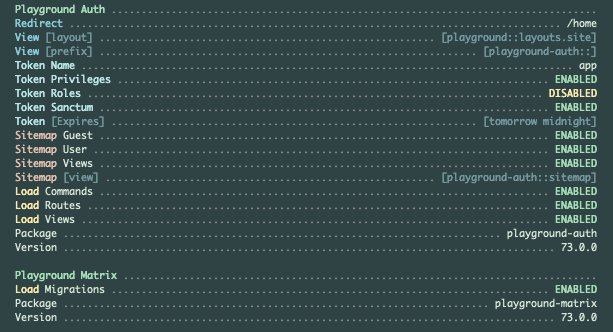
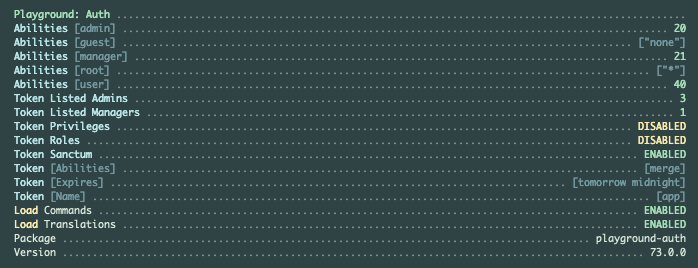
GH-7

diff --git a/config/playground-auth.php b/config/playground-auth.php
@@ -11,9 +11,9 @@ return [
         // 'expires' => null,
         'name' => 'app',
         // @see playground.auth.token.name
-        'listed' => false,
+        'listed' => true,
         'roles' => false,
-        'privileges' => true,
+        'privileges' => false,
         'sanctum' => true,
     ],
     'load' => [
@@ -24,40 +24,19 @@ return [
      * Provide an array of email addresses for admin privileges.
      */
     'admins' => [
-        // 'root@example.com',
-        // 'admin@example.com',
+        // 'cindy@example.com',
+        // 'joe@example.com',
+        // 'tim@example.com',
     ],
     /**
      * Provide an array of email addresses for manager privileges.
      */
     'managers' => [
-        // 'manager@example.com',
+        // 'sally@example.com',
     ],
     'abilities' => [
         'root' => [
             '*',
-            'app:*',
-            'playground:*',
-            'playground-auth:*',
-
-            'playground-matrix:*',
-            'playground-matrix-resource:*',
-
-            'playground-matrix-resource:backlog:*',
-            'playground-matrix-resource:board:*',
-            'playground-matrix-resource:epic:*',
-            'playground-matrix-resource:flow:*',
-            'playground-matrix-resource:milestone:*',
-            'playground-matrix-resource:note:*',
-            'playground-matrix-resource:project:*',
-            'playground-matrix-resource:release:*',
-            'playground-matrix-resource:roadmap:*',
-            'playground-matrix-resource:source:*',
-            'playground-matrix-resource:sprint:*',
-            'playground-matrix-resource:tag:*',
-            'playground-matrix-resource:team:*',
-            'playground-matrix-resource:ticket:*',
-            'playground-matrix-resource:version:*',
         ],
         'admin' => [
             'app:*',
@@ -65,22 +44,6 @@ return [
             'playground-auth:*',
             'playground-matrix:*',
             'playground-matrix-resource:*',
-
-            'playground-matrix-resource:backlog:*',
-            'playground-matrix-resource:board:*',
-            'playground-matrix-resource:epic:*',
-            'playground-matrix-resource:flow:*',
-            'playground-matrix-resource:milestone:*',
-            'playground-matrix-resource:note:*',
-            'playground-matrix-resource:project:*',
-            'playground-matrix-resource:release:*',
-            'playground-matrix-resource:roadmap:*',
-            'playground-matrix-resource:source:*',
-            'playground-matrix-resource:sprint:*',
-            'playground-matrix-resource:tag:*',
-            'playground-matrix-resource:team:*',
-            'playground-matrix-resource:ticket:*',
-            'playground-matrix-resource:version:*',
         ],
         'manager' => [
             'app:view',
@@ -156,43 +119,46 @@ return [
             'playground-matrix-resource:version:viewAny',
         ],
         'guest' => [
-            'app:view',
-
-            'playground:view',
-
-            'playground-auth:logout',
-            'playground-auth:reset-password',
-
-            'playground-matrix-resource:backlog:view',
-            'playground-matrix-resource:backlog:viewAny',
-            'playground-matrix-resource:board:view',
-            'playground-matrix-resource:board:viewAny',
-            'playground-matrix-resource:epic:view',
-            'playground-matrix-resource:epic:viewAny',
-            'playground-matrix-resource:flow:view',
-            'playground-matrix-resource:flow:viewAny',
-            'playground-matrix-resource:milestone:view',
-            'playground-matrix-resource:milestone:viewAny',
-            'playground-matrix-resource:note:view',
-            'playground-matrix-resource:note:viewAny',
-            'playground-matrix-resource:project:view',
-            'playground-matrix-resource:project:viewAny',
-            'playground-matrix-resource:release:view',
-            'playground-matrix-resource:release:viewAny',
-            'playground-matrix-resource:roadmap:view',
-            'playground-matrix-resource:roadmap:viewAny',
-            'playground-matrix-resource:source:view',
-            'playground-matrix-resource:source:viewAny',
-            'playground-matrix-resource:sprint:view',
-            'playground-matrix-resource:sprint:viewAny',
-            'playground-matrix-resource:tag:view',
-            'playground-matrix-resource:tag:viewAny',
-            'playground-matrix-resource:team:view',
-            'playground-matrix-resource:team:viewAny',
-            'playground-matrix-resource:ticket:view',
-            'playground-matrix-resource:ticket:viewAny',
-            'playground-matrix-resource:version:view',
-            'playground-matrix-resource:version:viewAny',
+            'none',
         ],
+        // 'guest' => [
+        //     'app:view',
+
+        //     'playground:view',
+
+        //     'playground-auth:logout',
+        //     'playground-auth:reset-password',
+
+        //     'playground-matrix-resource:backlog:view',
+        //     'playground-matrix-resource:backlog:viewAny',
+        //     'playground-matrix-resource:board:view',
+        //     'playground-matrix-resource:board:viewAny',
+        //     'playground-matrix-resource:epic:view',
+        //     'playground-matrix-resource:epic:viewAny',
+        //     'playground-matrix-resource:flow:view',
+        //     'playground-matrix-resource:flow:viewAny',
+        //     'playground-matrix-resource:milestone:view',
+        //     'playground-matrix-resource:milestone:viewAny',
+        //     'playground-matrix-resource:note:view',
+        //     'playground-matrix-resource:note:viewAny',
+        //     'playground-matrix-resource:project:view',
+        //     'playground-matrix-resource:project:viewAny',
+        //     'playground-matrix-resource:release:view',
+        //     'playground-matrix-resource:release:viewAny',
+        //     'playground-matrix-resource:roadmap:view',
+        //     'playground-matrix-resource:roadmap:viewAny',
+        //     'playground-matrix-resource:source:view',
+        //     'playground-matrix-resource:source:viewAny',
+        //     'playground-matrix-resource:sprint:view',
+        //     'playground-matrix-resource:sprint:viewAny',
+        //     'playground-matrix-resource:tag:view',
+        //     'playground-matrix-resource:tag:viewAny',
+        //     'playground-matrix-resource:team:view',
+        //     'playground-matrix-resource:team:viewAny',
+        //     'playground-matrix-resource:ticket:view',
+        //     'playground-matrix-resource:ticket:viewAny',
+        //     'playground-matrix-resource:version:view',
+        //     'playground-matrix-resource:version:viewAny',
+        // ],
     ],
 ];

diff --git a/src/ServiceProvider.php b/src/ServiceProvider.php
@@ -74,17 +74,85 @@ class ServiceProvider extends AuthServiceProvider
         $load = ! empty($config['load']) && is_array($config['load']) ? $config['load'] : [];
         $token = ! empty($config['token']) && is_array($config['token']) ? $config['token'] : [];
 
+        $listed_admins = 0;
+        if (! empty($config['admins']) && is_array($config['admins'])) {
+            $listed_admins = count($config['admins']);
+        }
+
+        $listed_managers = 0;
+        if (! empty($config['managers']) && is_array($config['managers'])) {
+            $listed_managers = count($config['managers']);
+        }
+
+        $abilties_root = 0;
+        $abilties_root_one = '';
+        $abilties_admin = 0;
+        $abilties_admin_one = '';
+        $abilties_manager = 0;
+        $abilties_manager_one = '';
+        $abilties_user = 0;
+        $abilties_user_one = '';
+        $abilties_guest = 0;
+        $abilties_guest_one = '';
+
+        if (! empty($config['abilities']) && is_array($config['abilities'])) {
+            // Check abilities: root
+            if (! empty($config['abilities']['root']) && is_array($config['abilities']['root'])) {
+                $abilties_root = count($config['abilities']['root']);
+                if ($abilties_root === 1) {
+                    $abilties_root_one = json_encode($config['abilities']['root']);
+                }
+            }
+            // Check abilities: admin
+            if (! empty($config['abilities']['admin']) && is_array($config['abilities']['admin'])) {
+                $abilties_admin = count($config['abilities']['admin']);
+                if ($abilties_admin === 1) {
+                    $abilties_admin_one = json_encode($config['abilities']['admin']);
+                }
+            }
+            // Check abilities: manager
+            if (! empty($config['abilities']['manager']) && is_array($config['abilities']['manager'])) {
+                $abilties_manager = count($config['abilities']['manager']);
+                if ($abilties_manager === 1) {
+                    $abilties_manager_one = json_encode($config['abilities']['manager']);
+                }
+            }
+            // Check abilities: user
+            if (! empty($config['abilities']['user']) && is_array($config['abilities']['user'])) {
+                $abilties_user = count($config['abilities']['user']);
+                if ($abilties_user === 1) {
+                    $abilties_user_one = json_encode($config['abilities']['user']);
+                }
+            }
+            // Check abilities: guest
+            if (! empty($config['abilities']['guest']) && is_array($config['abilities']['guest'])) {
+                $abilties_guest = count($config['abilities']['guest']);
+                if ($abilties_guest === 1) {
+                    $abilties_guest_one = json_encode($config['abilities']['guest']);
+                }
+            }
+        }
+
         $version = $this->version();
 
         AboutCommand::add('Playground: Auth', fn () => [
             '<fg=yellow;options=bold>Load</> Commands' => ! empty($load['commands']) ? '<fg=green;options=bold>ENABLED</>' : '<fg=yellow;options=bold>DISABLED</>',
             '<fg=yellow;options=bold>Load</> Translations' => ! empty($load['translations']) ? '<fg=green;options=bold>ENABLED</>' : '<fg=yellow;options=bold>DISABLED</>',
 
+            '<fg=cyan;options=bold>Token</> [Abilities]' => sprintf('[%s]', $token['abilities']),
             '<fg=cyan;options=bold>Token</> [Expires]' => sprintf('[%s]', $token['expires']),
-            '<fg=cyan;options=bold>Token Name</>' => $token['name'],
+            '<fg=cyan;options=bold>Token</> [Name]' => sprintf('[%s]', $token['name']),
+            '<fg=cyan;options=bold>Token Listed Admins</>' => ! empty($token['listed']) ? sprintf('<fg=green;options=bold>%1$d</>', $listed_admins) : '<fg=yellow;options=bold>DISABLED</>',
+            '<fg=cyan;options=bold>Token Listed Managers</>' => ! empty($token['listed']) ? sprintf('<fg=green;options=bold>%1$d</>', $listed_managers) : '<fg=yellow;options=bold>DISABLED</>',
             '<fg=cyan;options=bold>Token Roles</>' => ! empty($token['roles']) ? '<fg=green;options=bold>ENABLED</>' : '<fg=yellow;options=bold>DISABLED</>',
             '<fg=cyan;options=bold>Token Privileges</>' => ! empty($token['privileges']) ? '<fg=green;options=bold>ENABLED</>' : '<fg=yellow;options=bold>DISABLED</>',
             '<fg=cyan;options=bold>Token Sanctum</>' => ! empty($token['sanctum']) ? '<fg=green;options=bold>ENABLED</>' : '<fg=yellow;options=bold>DISABLED</>',
+
+            '<fg=cyan;options=bold>Abilities</> [admin]' => ! empty($abilties_admin) && empty($abilties_admin_one) ? sprintf('<fg=green;options=bold>%1$d</>', $abilties_admin) : sprintf('<fg=yellow;options=bold>%1$s</>', $abilties_admin_one),
+            '<fg=cyan;options=bold>Abilities</> [guest]' => ! empty($abilties_guest) && empty($abilties_guest_one) ? sprintf('<fg=green;options=bold>%1$d</>', $abilties_guest) : sprintf('<fg=yellow;options=bold>%1$s</>', $abilties_guest_one),
+            '<fg=cyan;options=bold>Abilities</> [manager]' => ! empty($abilties_manager) && empty($abilties_manager_one) ? sprintf('<fg=green;options=bold>%1$d</>', $abilties_manager) : sprintf('<fg=yellow;options=bold>%1$s</>', $abilties_manager_one),
+            '<fg=cyan;options=bold>Abilities</> [root]' => ! empty($abilties_root) && empty($abilties_root_one) ? sprintf('<fg=green;options=bold>%1$d</>', $abilties_root) : sprintf('<fg=yellow;options=bold>%1$s</>', $abilties_root_one),
+            '<fg=cyan;options=bold>Abilities</> [user]' => ! empty($abilties_user) && empty($abilties_user_one) ? sprintf('<fg=green;options=bold>%1$d</>', $abilties_user) : sprintf('<fg=yellow;options=bold>%1$s</>', $abilties_user_one),
 
             'Package' => $this->package,
             'Version' => $version,

diff --git a/README.md b/README.md
@@ -25,7 +25,31 @@ php artisan vendor:publish --provider="Playground\Auth\ServiceProvider" --tag="p
 
 See the contents of the published config file: [config/playground-auth.php](config/playground-auth.php)
 
+The default configuration utitlizes:
+- Sanctum with role based abilities
+- Users may have additional abilities in the model Playground\Models\User: `users.abilities`
+
 ### Environment Variables
+
+### User model types
+
+Playground tests many different User model types to support any ecosystem.
+
+Make sure your app is configured for the proper user model in the Laravel configuration:
+
+```php
+    'providers' => [
+        'users' => [
+            'driver' => 'eloquent',
+            'model' => App\Models\User::class,
+        ],
+```
+
+During testing, Playground tests user various models.
+```php
+config(['auth.providers.users.model' => 'Playground\\Models\\User'])
+```
+
 
 #### Loading
 
@@ -52,13 +76,34 @@ artisan auth:hash-password 'some password' --json --pretty
 }
 ```
 
+## PHPStan
+
+Tests at level 9 on:
+- `config/`
+- `database/`
+- `lang/`
+- `resources/views/`
+- `src/`
+- `tests/Feature/`
+- `tests/Unit/`
+
+```sh
+composer analyse
+```
+
+## Coding Standards
+
+```sh
+composer format
+```
+
 ## Testing
 
 ```sh
 composer test
 ```
 
-## About
+## `artisan about`
 
 Playground Auth provides information in the `artisan about` command.
 
